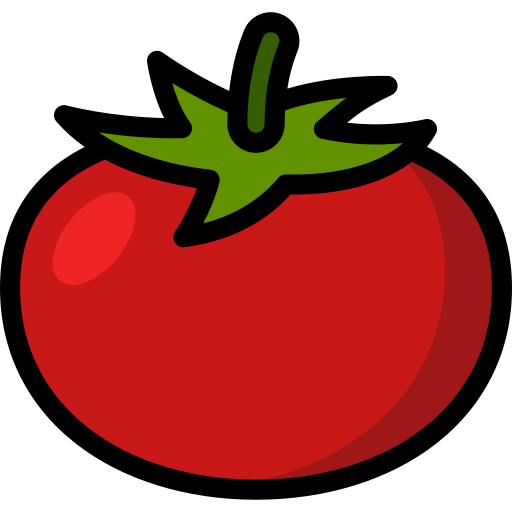
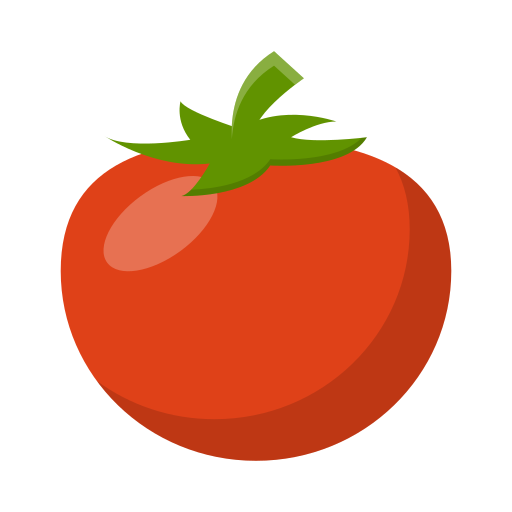
mini ikon part 2.5

diff --git a/Sandvicler.html b/Sandvicler.html
@@ -44,6 +44,12 @@
             <div class="urun-arka">
                 <h4>Helvakis</h4>
                 <p>Kızarmış Ayvalık ekmeğinde; tahin helva, mevsim meyveleri, karamel sosu ile lezzet patlaması.</p>
+                <div class="ingredient-banner">
+    <div class="ingredient"> <img src="mini/bread.png" alt="Ekmek"> </div>
+    <div class="ingredient"> <img src="mini/halva.png" alt="Tahin Helvası"> </div>
+    <div class="ingredient"> <img src="mini/fruits.png" alt="Meyve"> </div>
+    <div class="ingredient"> <img src="mini/caramel.png" alt="Karamel Sos"> </div>
+    </div>
             </div>
         </div>
     </div>
@@ -57,6 +63,13 @@
             <div class="urun-arka">
                 <h4>Füme Hindi Avokado Sandviç</h4>
                 <p>Hindi füme ve avokado püresinin taze roka, lor peyniri ve karamelize soğanla yakaladığı mükemmel uyum.</p>
+                <div class="ingredient-banner">
+    <div class="ingredient"> <img src="mini/hindi.png" alt="Hindi Füme"> </div>
+    <div class="ingredient"> <img src="mini/avocado.png" alt="Avokado"> </div>
+    <div class="ingredient"> <img src="mini/arugula.png" alt="Taze Roka"> </div>
+    <div class="ingredient"> <img src="mini/cottage-cheese.png" alt="Lor Peyniri"> </div>
+    <div class="ingredient"> <img src="mini/onion.png" alt="Soğan"> </div>
+    </div>
             </div>
         </div>
     </div>
@@ -70,6 +83,15 @@
             <div class="urun-arka">
                 <h4>Monster Sandviç</h4>
                 <p>Füme dana jambon ve İtalyan sucuğu; taze roka, turşu ve eriyen kaşarın pesto ve barbekü sosla harmanlandığı vazgeçilmez lezzet.</p>
+                <div class="ingredient-banner">
+    <div class="ingredient"> <img src="mini/danajambon.png" alt="Dana Jambon"> </div>
+    <div class="ingredient"> <img src="mini/sucuk.png" alt="Sucuk"> </div>
+    <div class="ingredient"> <img src="mini/arugula.png" alt="Taze Roka"> </div>
+    <div class="ingredient"> <img src="mini/pickles.png" alt="Turşu"> </div>
+    <div class="ingredient"> <img src="mini/slicecheese.png" alt="Kaşar"> </div>
+    <div class="ingredient"> <img src="mini/pesto.png" alt="Pesto Sos"> </div>
+    <div class="ingredient"> <img src="mini/barbeque.png" alt="Barbekü Sos"> </div>
+    </div>
             </div>
         </div>
     </div>
@@ -83,6 +105,13 @@
             <div class="urun-arka">
                 <h4>Pastırmalı Yumurta Sandviç</h4>
                 <p>Pastırma ve krem peynirin; haşlanmış yumurta, taze roka ve acı bal sosuyla fırınlanmış bagel içindeki uyumu.</p>
+                <div class="ingredient-banner">
+    <div class="ingredient"> <img src="mini/bagel.png" alt="Bagel"> </div>
+    <div class="ingredient"> <img src="mini/bacon.png" alt="Pastırma"> </div>
+    <div class="ingredient"> <img src="mini/creamcheese.png" alt="Krem Peynir"> </div>
+    <div class="ingredient"> <img src="mini/boiledegg.png" alt="Haşlanmış Yumurta"> </div>
+    <div class="ingredient"> <img src="mini/arugula.png" alt="Taze Roka"> </div>
+        </div>
             </div>
         </div>
     </div>
@@ -96,6 +125,13 @@
             <div class="urun-arka">
                 <h4>Pesto Soslu Sandviç</h4>
                 <p>Fırınlanmış patlıcan ve mozzarella peynirinin taze pesto sos, çeri domates ve rokayla buluşması.</p>
+                <div class="ingredient-banner">
+    <div class="ingredient"> <img src="mini/eggplant.png" alt="Patlıcan"> </div>
+    <div class="ingredient"> <img src="mini/mozzarella.png" alt="Mozzarella Peyniri"> </div>
+    <div class="ingredient"> <img src="mini/pesto.png" alt="Pesto Sos"> </div>
+    <div class="ingredient"> <img src="mini/çeritomato.png" alt="Domates"> </div>
+    <div class="ingredient"> <img src="mini/arugula.png" alt="Taze Roka"> </div>
+        </div>
             </div>
         </div>
     </div>
@@ -109,6 +145,13 @@
             <div class="urun-arka">
                 <h4>Tavuk Barbekü Sandviç</h4>
                 <p>Ayvalık ekmeğinde barbekü soslu tavuk ve eriyen kaşarın, taze rokayla yakaladığı çıtır ve leziz uyum.</p>
+                <div class="ingredient-banner">
+    <div class="ingredient"> <img src="mini/bread.png" alt="Ayvalık Ekmeği"> </div>
+    <div class="ingredient"> <img src="mini/barbeque.png" alt="Barbekü Sos"> </div>
+    <div class="ingredient"> <img src="mini/chicken-breast.png" alt="Tavuk"> </div>
+    <div class="ingredient"> <img src="mini/slicecheese.png" alt="Kaşar Peyniri"> </div>
+    <div class="ingredient"> <img src="mini/arugula.png" alt="Taze Roka"> </div>
+        </div>
             </div>
         </div>
     </div>
@@ -122,6 +165,15 @@
             <div class="urun-arka">
                 <h4>Ton Balıklı Akdeniz Sandviç</h4>
                 <p>Ton balığı ve kaparinin kuru domates, turşu, taze marul ve hardallı yoğurt sosuyla harmanlanan ferah uyumu.</p>
+                <div class="ingredient-banner">
+    <div class="ingredient"> <img src="mini/tuna.png" alt="Ton Balığı"> </div>
+    <div class="ingredient"> <img src="mini/caper.png" alt="Kapari"> </div>
+    <div class="ingredient"> <img src="mini/tomato.png" alt="Domates"> </div>
+    <div class="ingredient"> <img src="mini/pickles.png" alt="Turşu"> </div>
+    <div class="ingredient"> <img src="mini/lettuce.png" alt="Marul"> </div>
+    <div class="ingredient"> <img src="mini/mustard.png" alt="Hardal"> </div>
+    <div class="ingredient"> <img src="mini/yogurt.png" alt="Yoğurt"> </div>
+        </div>
             </div>
         </div>
     </div>
